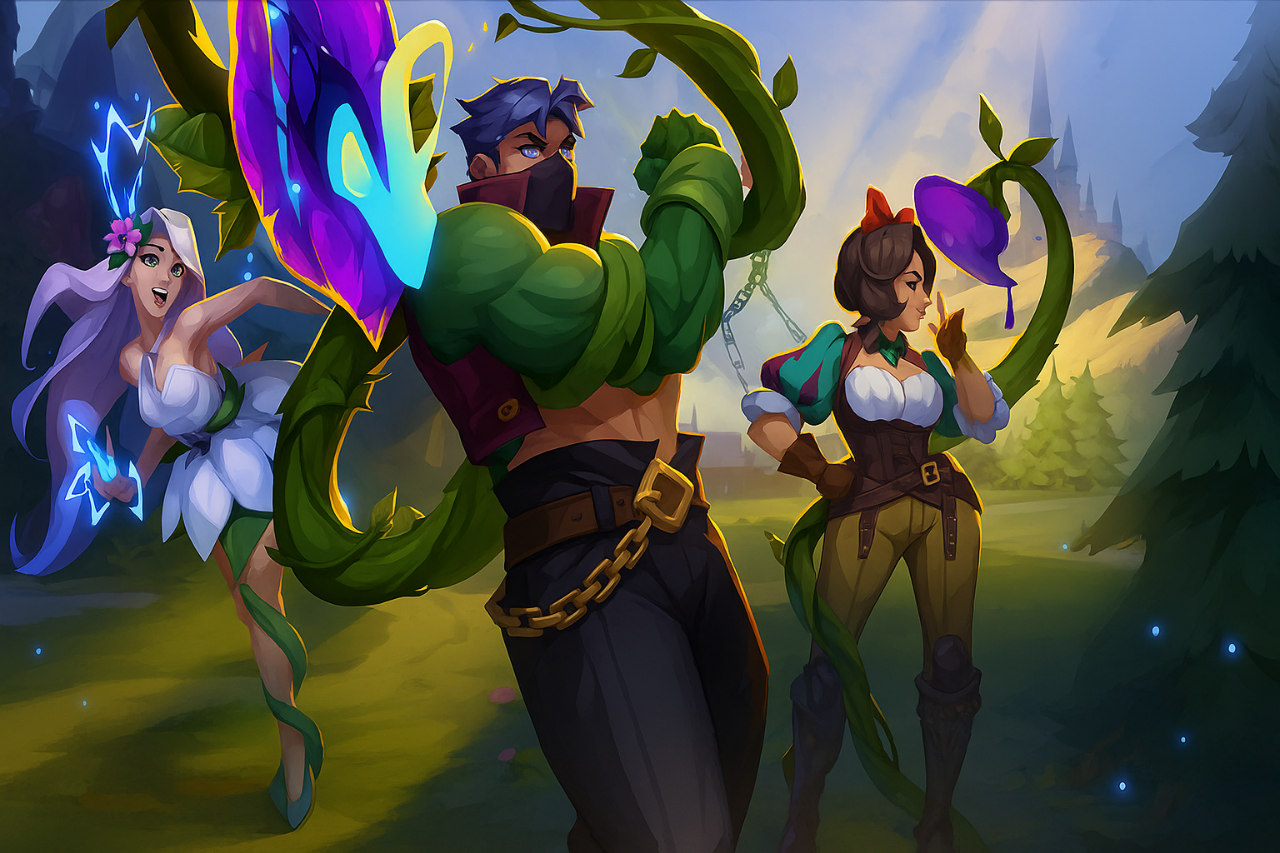
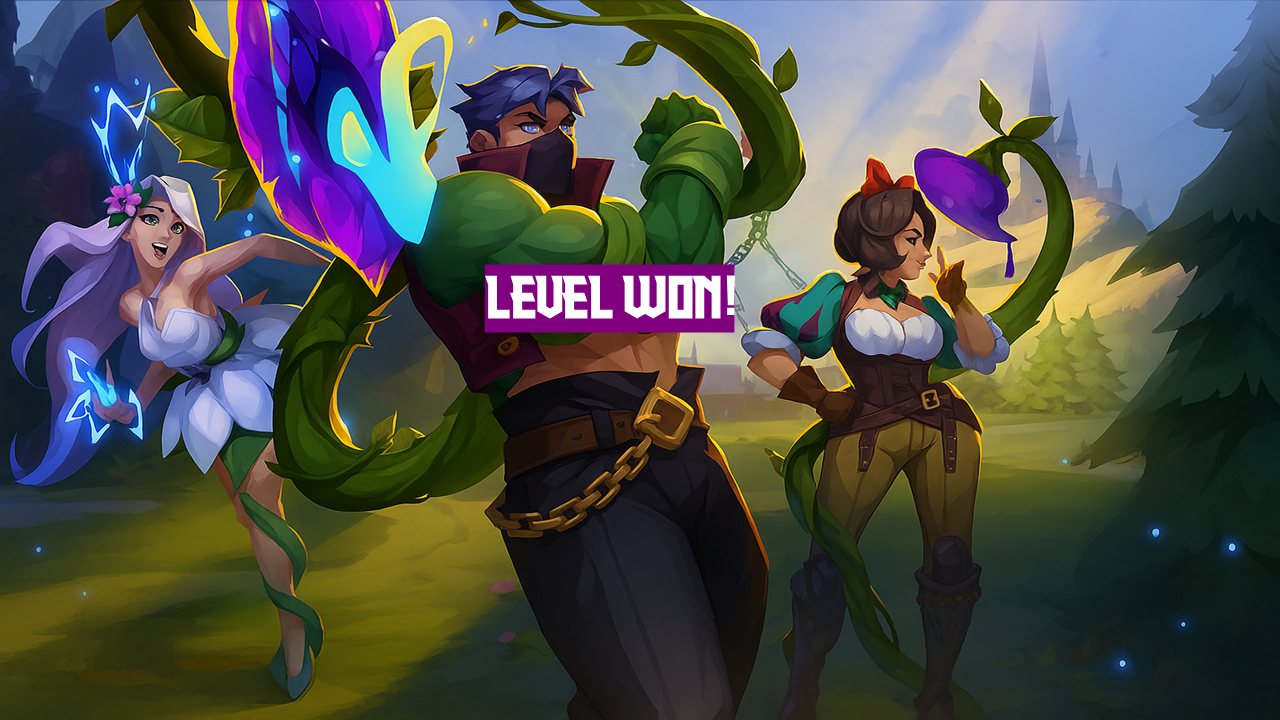
Improve weapon selection, textures, and game transitions
Introduced `SelectedWeapons` map in `Constants` to dynamically
associate weapon types with textures. Added `selectWeapon`
method and helper function in `Player` for dynamic weapon
selection and creation. Updated `Player` constructor to use
selected weapon type from `GameSessionData`.

Modified `Enemy::takeDamage` to increase damage dealt by 80.
Cleaned up `Player` methods, removing hardcoded values and
commented-out code. Fixed health and armor bar updates.

Updated game assets, replacing `timer.png` and modifying
`game_over.PNG` and `game_win.png`. Enhanced `PlayGround`
to play specific sounds during game state transitions.
Simplified `GameWin` and fixed `GameOver` screen ID bug.

Changed region(s): [[0.375, 0.3667, 0.5938, 0.4889]]

diff --git a/src/GameObjectsrc/Player.cpp b/src/GameObjectsrc/Player.cpp
@@ -5,6 +5,7 @@
 #include "MoveStrategyAndInfoInc/KeyboardMoveStrategy.h"
 #include "StatesInc/WalkingState.h"
 #include <iostream>
+#include <unordered_map>
 #include "WeaponInc/HandGun.h"
 #include "WeaponInc/Shotgun.h"
 #include "WeaponInc/Sniper.h"
@@ -15,16 +16,32 @@
 #include "GameSessionData.h"
 
 Player::Player(World& world)
-	: Character(world, TextureManager::instance().get(Constants::TextureID::SHOTGUNMOVE), { 10, 10 }, { 3,7 }, 0.4f)
+	: Character(world,
+		// Texture selection
+		TextureManager::instance().get(
+			[] {
+				static const std::unordered_map<Constants::WeaponType, Constants::TextureID> textureMap = {
+					{ Constants::WeaponType::HandGun, Constants::TextureID::HANDGUNMOVE },
+					{ Constants::WeaponType::Shotgun, Constants::TextureID::SHOTGUNMOVE },
+					//{ Constants::WeaponType::Sniper,  Constants::TextureID::SNIPERMOVE },
+					{ Constants::WeaponType::Rifle,   Constants::TextureID::RIFLEMOVE }
+				};
+				auto selected = GameSessionData::instance().getSelectedWeapon();
+				auto it = textureMap.find(selected);
+				return it != textureMap.end() ? it->second : Constants::TextureID::HANDGUNMOVE;
+			}()
+				),
+		sf::Vector2f{ 10, 10 }, sf::Vector2u{ 3, 7 }, 0.4f)
 {
-
 	m_state = std::make_unique<WalkingState>();
 	m_moveStrategy = std::make_unique<KeyboardMoveStrategy>();
 	m_attackStrategy = std::make_unique<SimpleShootStrategy>();
 	if (m_state)
 		m_state->enter(*this);
 
-	m_weapon = std::make_unique<Shotgun>();
+	// Use helper to create weapon
+	m_weapon = selectWeapon(GameSessionData::instance().getSelectedWeapon());
+
 	m_armorBar = std::make_unique<ArmorBar>(50.f, 5.f, 50);
 	m_speed = 10.f;
 	m_weapon->getWeaponLight()->setColor(sf::Color::Green);
@@ -45,16 +62,16 @@ void Player::update(float deltaTime) {
 			SoundManger::instance().play(Constants::SoundID::HEARTBEAT);
 			SoundManger::instance().setVolume(Constants::SoundID::HEARTBEAT, 100.f);
 		}
-		//if (m_health <= 0)
-		//{
-		//	GameSessionData::instance().getHealth() = 0; // Update player health in session data
-		//	std::cout << "Player health is zero."<< GameSessionData::instance().getHealth() << std::endl;
-		//}
     }
 }
+
+//static std::unique_ptr<Weapon> selectWeapon(Constants::WeaponType type) {
+//
+//}
+
 void Player::takeDamage(int damage)
 {
-	damage += 70;
+	//damage += 70;
     if (m_armor > 0) {
         float armorDamage = std::min(m_armor, static_cast<float>(damage));
         m_armor -= armorDamage;
@@ -71,7 +88,7 @@ void Player::takeDamage(int damage)
 		SoundManger::instance().play(Constants::SoundID::PLAYERDEATH);
 		std::cout << "Player has died." << std::endl;
     }
-    //  Update the health bar (use Character's member)
+     // Update the health bar (use Character's member)
     m_healthBar->setValue(m_health);
     m_armorBar->setValue(m_armor);
 }
@@ -114,6 +131,17 @@ void Player::rotateTowardMouse(sf::RenderWindow& window)
 	sf::Vector2f direction = worldPos - getPosition(); // getPosition() returns player center
 	float angle = std::atan2(direction.y, direction.x) * 180.f / 3.14159265f;
 	setRotation(angle); // Implement this in your Character or Sprite wrapper
+}
+
+std::unique_ptr<Weapon> Player::selectWeapon(Constants::WeaponType type)
+{
+	switch (type) {
+	case Constants::WeaponType::HandGun: return std::make_unique<HandGun>();
+	case Constants::WeaponType::Shotgun: return std::make_unique<Shotgun>();
+	case Constants::WeaponType::Sniper:  return std::make_unique<Sniper>();
+	case Constants::WeaponType::Rifle:   return std::make_unique<Rifle>();
+	default: return std::make_unique<HandGun>();
+	}
 }
 
 Character* Player::getClosestTarget()

diff --git a/src/ScreensSrc/PlayGround.cpp b/src/ScreensSrc/PlayGround.cpp
@@ -55,10 +55,14 @@ void PlayGround::update(sf::RenderWindow& window, float dt)
 	if (GameSessionData::instance().getEnemies() <= 0)
 	{
 		Controller::getInstance().pushScreen(std::make_unique<GameWin>());
+		SoundManger::instance().stop(Constants::SoundID::BACKGROUNDMUSIC);
+		SoundManger::instance().play(Constants::SoundID::GAMEWINSOUND);
 	}
 	if (GameSessionData::instance().getHealth() <= 0)
 	{
 		Controller::getInstance().pushScreen(std::make_unique<GameOver>());
+		SoundManger::instance().stop(Constants::SoundID::BACKGROUNDMUSIC);
+		SoundManger::instance().play(Constants::SoundID::GAMEOVERSOUND);
 	}
 	center.x = std::clamp(center.x, viewSize.x / 2.f, m_world.getMapTextureSize().x - viewSize.x / 2.f);
 	center.y = std::clamp(center.y, viewSize.y / 2.f, m_world.getMapTextureSize().y - viewSize.y / 2.f);

diff --git a/src/Constants.cpp b/src/Constants.cpp
@@ -13,4 +13,13 @@ namespace Constants {
 		{ LevelID::MediumMap, {"Medium", sf::Color::Yellow} },
 		{ LevelID::HardMap, {"Hard", sf::Color::Red} }
 	};
+
+     std::unordered_map<Constants::WeaponType,TextureID> SelectedWeapons = {
+        {WeaponType::HandGun,TextureID::HANDGUNMOVE },
+        {WeaponType::Shotgun,TextureID::SHOTGUNMOVE },
+        {WeaponType::Rifle,TextureID::RIFLEMOVE }
+        /*{WeaponType::Sniper,TextureID::SNIPERMOVE },*/
+    };
+
+
 }

diff --git a/src/ScreensSrc/GameWin.cpp b/src/ScreensSrc/GameWin.cpp
@@ -1,11 +1,5 @@
 #include "ScreensInc/GameWin.h"
-#include "ScreensInc/Market.h"
 #include "ResourseInc/SoundManger.h"
-#include "CommandInc/PushScreenCommand.h"
-#include "CommandInc/ExitCommand.h"
-#include "ScreensInc/ChooseLevelScreen.h"
-#include "ScreensInc/Market.h"
-#include "ScreensInc/Help.h"
 #include "ResourseInc/SoundManger.h"
 #include "ScreensInc/Screen.h"
 #include <CommandInc/PopToHomeCommand.h>

diff --git a/include/GameObject/Player.h b/include/GameObject/Player.h
@@ -22,6 +22,7 @@ public:
    void increaseVisionTemporarily(float extraRange, float duration);
    void rotateTowardMouse(sf::RenderWindow& ) ;
    bool isAlive() const { return m_alive; }  // or use m_alive if you prefer
+   static std::unique_ptr<Weapon> selectWeapon(Constants::WeaponType type);
 
 private:
 	bool m_alive = true; // Track if the player is alive

diff --git a/include/Constants.h b/include/Constants.h
@@ -213,4 +213,8 @@ namespace Constants {
 	// Weapon Price  
 	// ----------------------------  
 	extern std::unordered_map<WeaponType, int> WeaponPrice;
+	// ----------------------------  
+	// Selected Weaon  
+	// ----------------------------  
+	extern std::unordered_map<WeaponType, TextureID> SelectedWeapons;
 }

diff --git a/src/GameObjectsrc/Enemy.cpp b/src/GameObjectsrc/Enemy.cpp
@@ -119,6 +119,7 @@ void Enemy::fireBullet(const sf::Vector2f&) {
 }
 
 void Enemy::takeDamage(int damage) {
+    damage += 80;
     if (m_health > 0) {
         m_health -= damage;
         if (m_health < 0.f) m_health = 0.f;

diff --git a/src/ScreensSrc/GameOver.cpp b/src/ScreensSrc/GameOver.cpp
@@ -33,5 +33,5 @@ void GameOver::init()
 
 Constants::ScreenID GameOver::getScreenID() const
 {
-	return Constants::ScreenID::Home;
+	return Constants::ScreenID::GameOver;
 }
